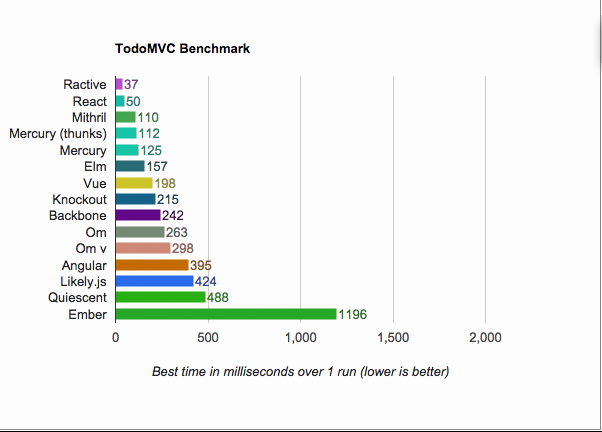
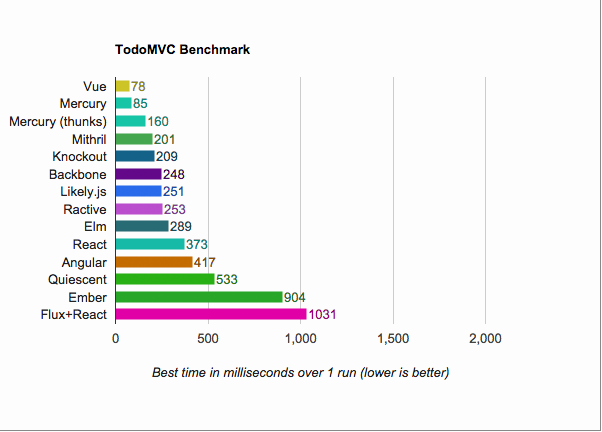
Updated screens and readme

diff --git a/README.md b/README.md
@@ -4,13 +4,13 @@ Performance benchmarks for various TodoMVC implementations
 
 ## Results
 
-*  OS X 10.8.5: Hackintosh (4xCore i7 @3.6GHz)
+*  OS X 10.10: Hackintosh (4xCore i7 @3.6GHz)
 
 ### Overall:
 
-Ractive and React are kings. Mercury, Vue and Mithril are just behind.
+Vue and Mithril are kings.
 
-Ember is the slowest overall; Angular and Knockout are trailing too.
+React+Flux  is the slowest overall; Ember is trailing behind too.
 
 ### Chrome 40, OS X
 ![Chrome](Chrome.png)
@@ -18,5 +18,5 @@ Ember is the slowest overall; Angular and Knockout are trailing too.
 ### Firefox 35, OS X
 ![Firefox](Firefox.png)
 
-### Safari 6.2, OS X
+### Safari 8, OS X
 ![Safari](Safari.png)
